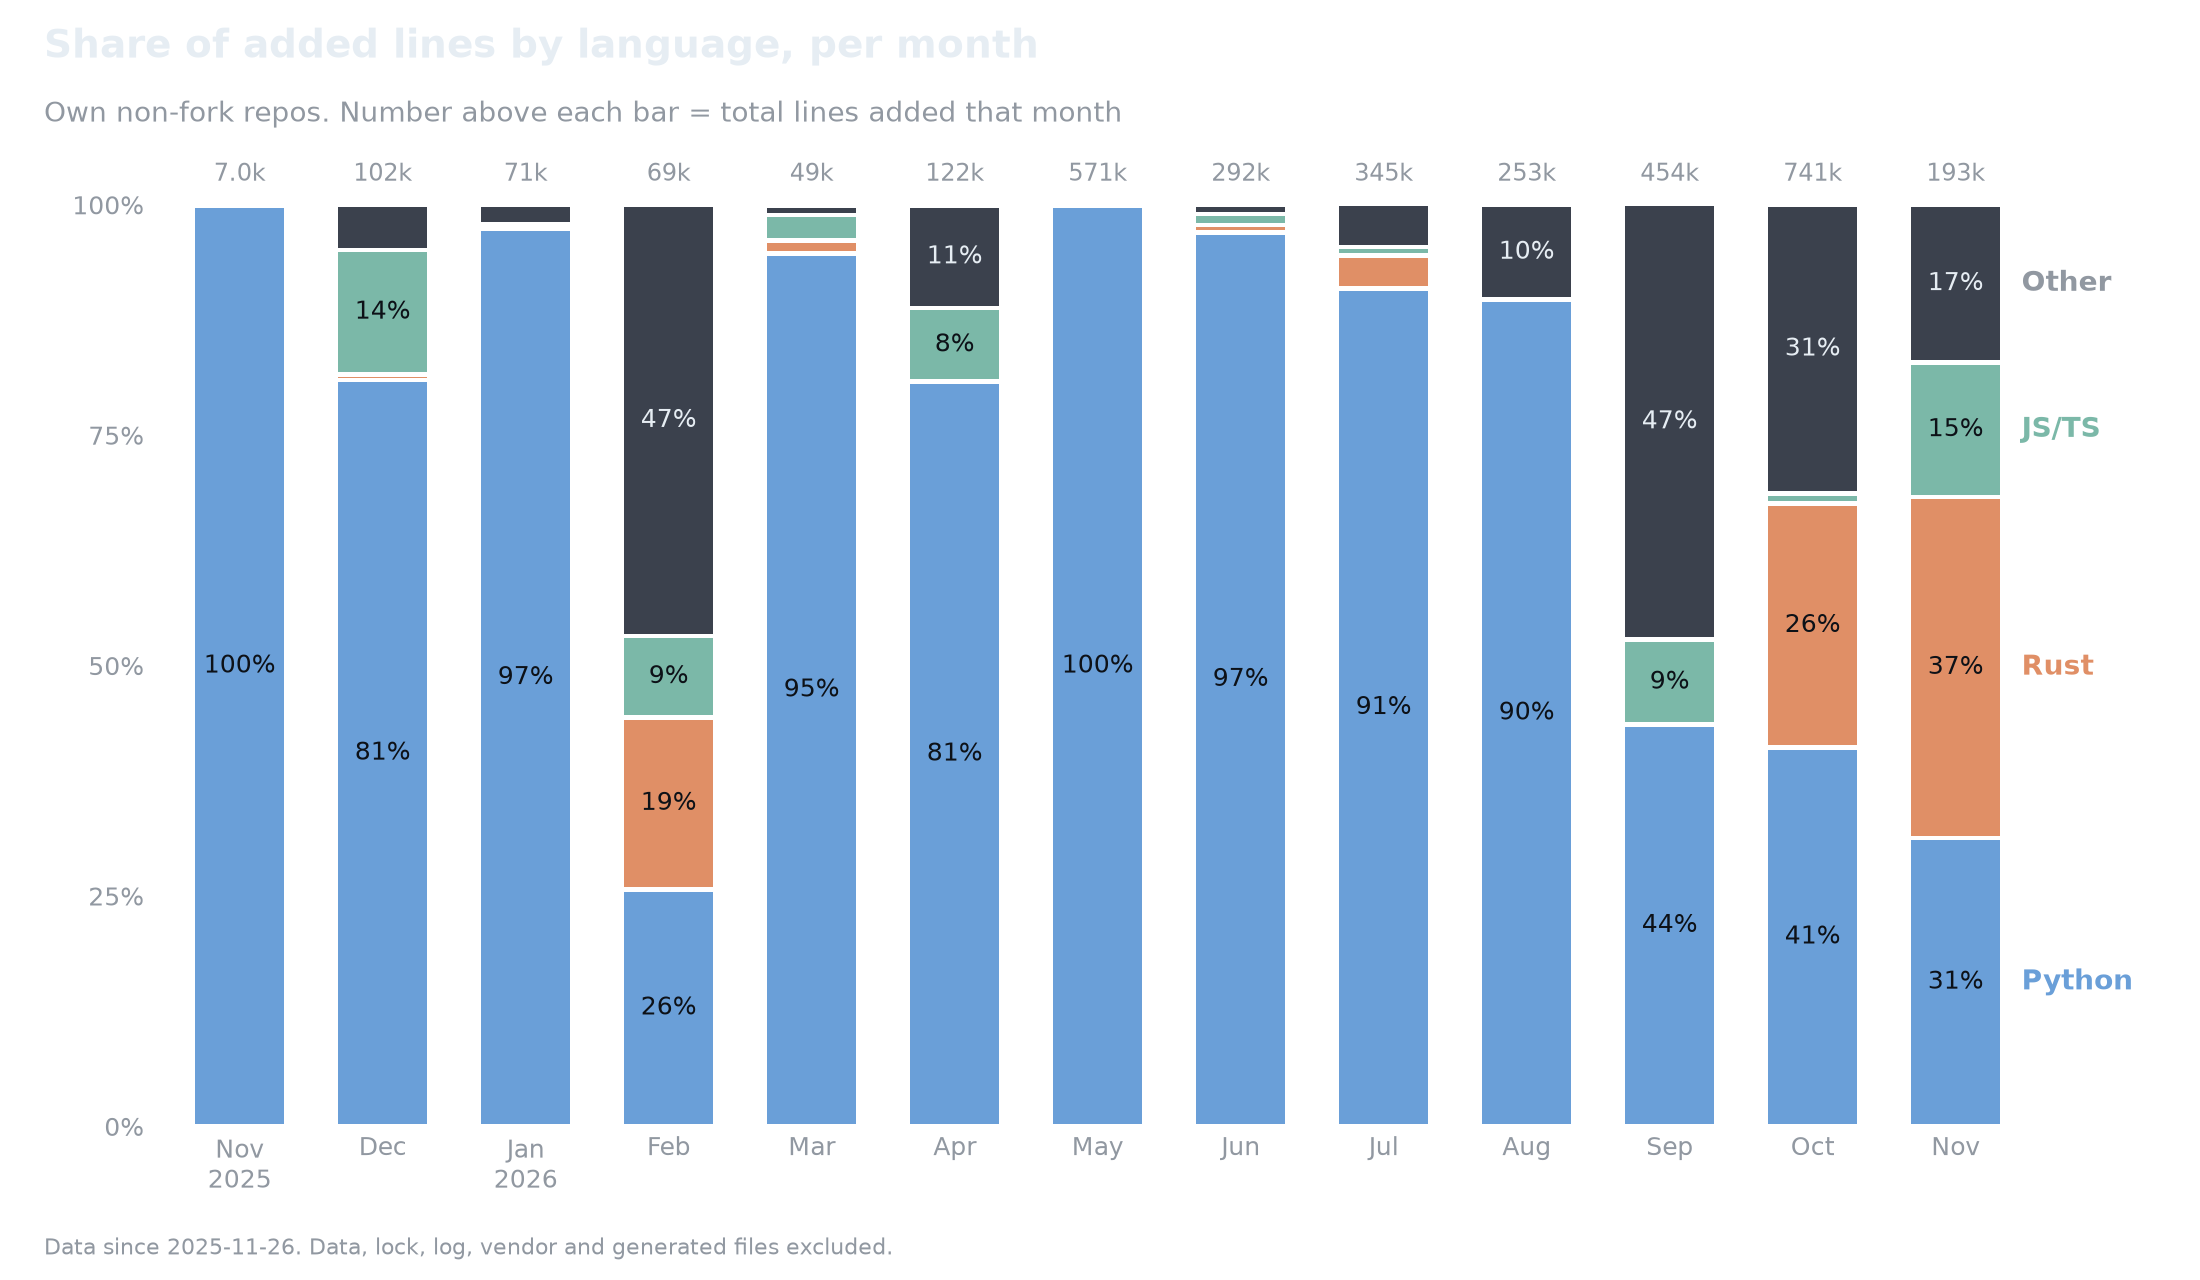
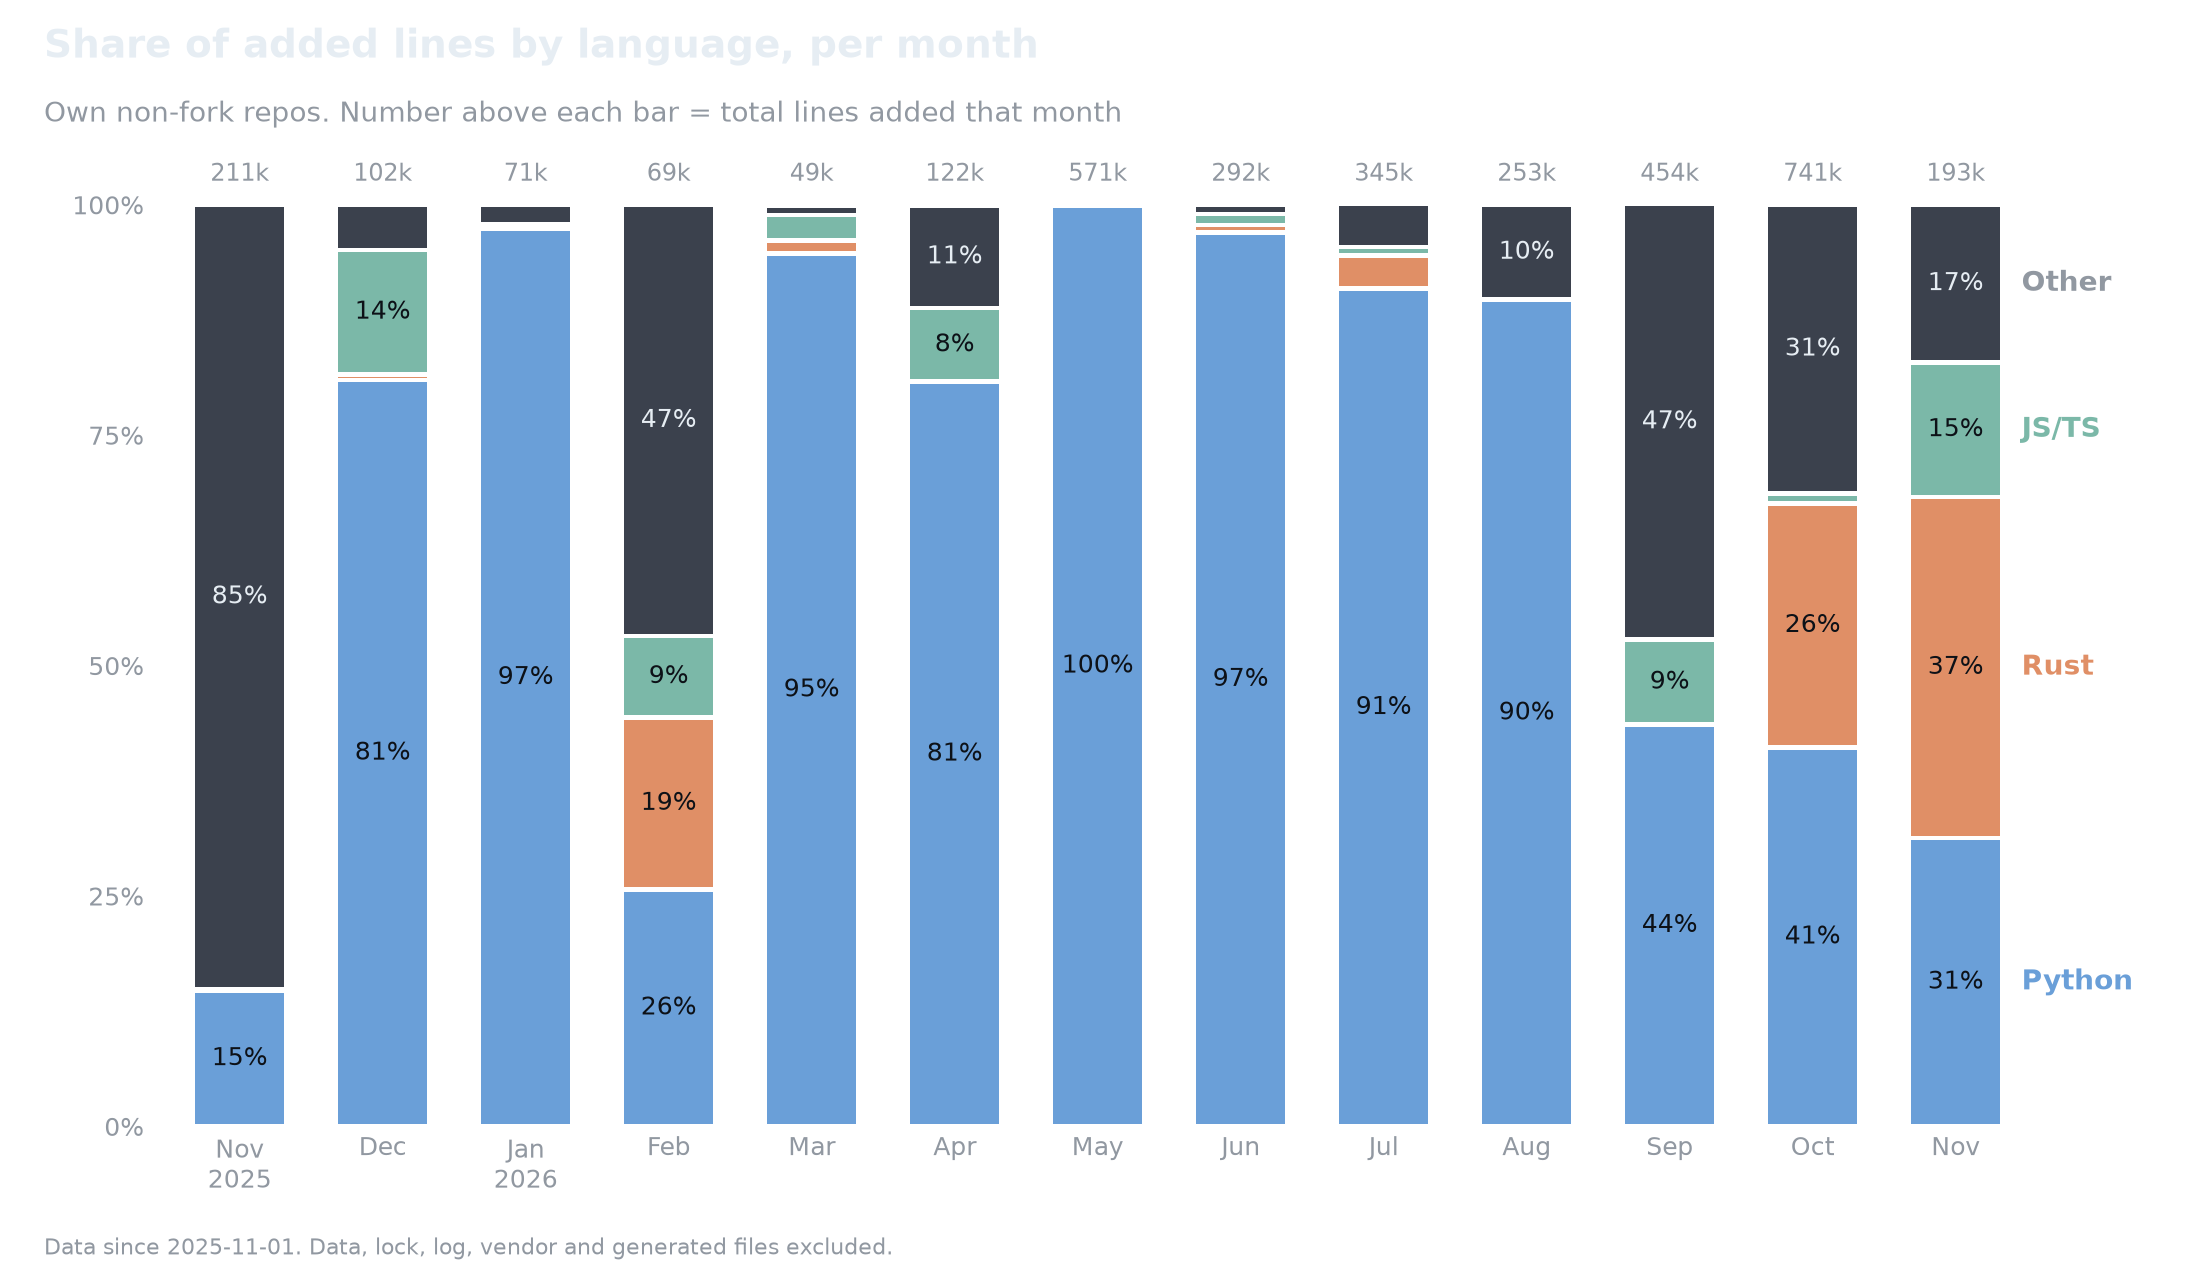
Chart the last 13 calendar months so the oldest month is complete

Changed region(s): [[0.0618, 0.125, 0.1545, 0.7812], [0.0927, 0.8125, 0.1236, 0.8438]]

diff --git a/lang_stats.py b/lang_stats.py
@@ -2,7 +2,7 @@
 """Monthly language share of lines added across your own (non-fork) GitHub repos.
 
 Usage:
-    python3 lang_stats.py                      # last 365 days, chart to assets/languages-monthly.png
+    python3 lang_stats.py                      # last 13 months (from the 1st), chart to assets/languages-monthly.png
     python3 lang_stats.py --out /tmp/foo       # other folder for the PNG
     python3 lang_stats.py --since 2025-11-26   # fixed start date
     python3 lang_stats.py --no-fetch           # reuse cached clones, skip git fetch
@@ -283,14 +283,23 @@ def draw_chart(csv_path, png_path, since, theme="light"):
     return png_path
 
 
+def default_since():
+    """First day of the month 12 months back: 13 monthly bars, the oldest full, the current one partial."""
+    t = dt.date.today()
+    y, m = t.year, t.month - 12
+    if m < 1:
+        y, m = y - 1, m + 12
+    return dt.date(y, m, 1).isoformat()
+
+
 def main():
     ap = argparse.ArgumentParser(description=__doc__, formatter_class=argparse.RawDescriptionHelpFormatter)
     ap.add_argument("--out", default=DEFAULT_OUT, help=f"folder for the PNG (default: {DEFAULT_OUT})")
-    ap.add_argument("--since", help="window start YYYY-MM-DD (default: one year ago today)")
+    ap.add_argument("--since", help="window start YYYY-MM-DD (default: 1st of the month 12 months ago)")
     ap.add_argument("--no-fetch", action="store_true", help="do not fetch existing clones")
     args = ap.parse_args()
 
-    since = args.since or (dt.date.today() - dt.timedelta(days=365)).isoformat()
+    since = args.since or default_since()
     os.makedirs(args.out, exist_ok=True)
     os.makedirs(CLONES, exist_ok=True)
 
